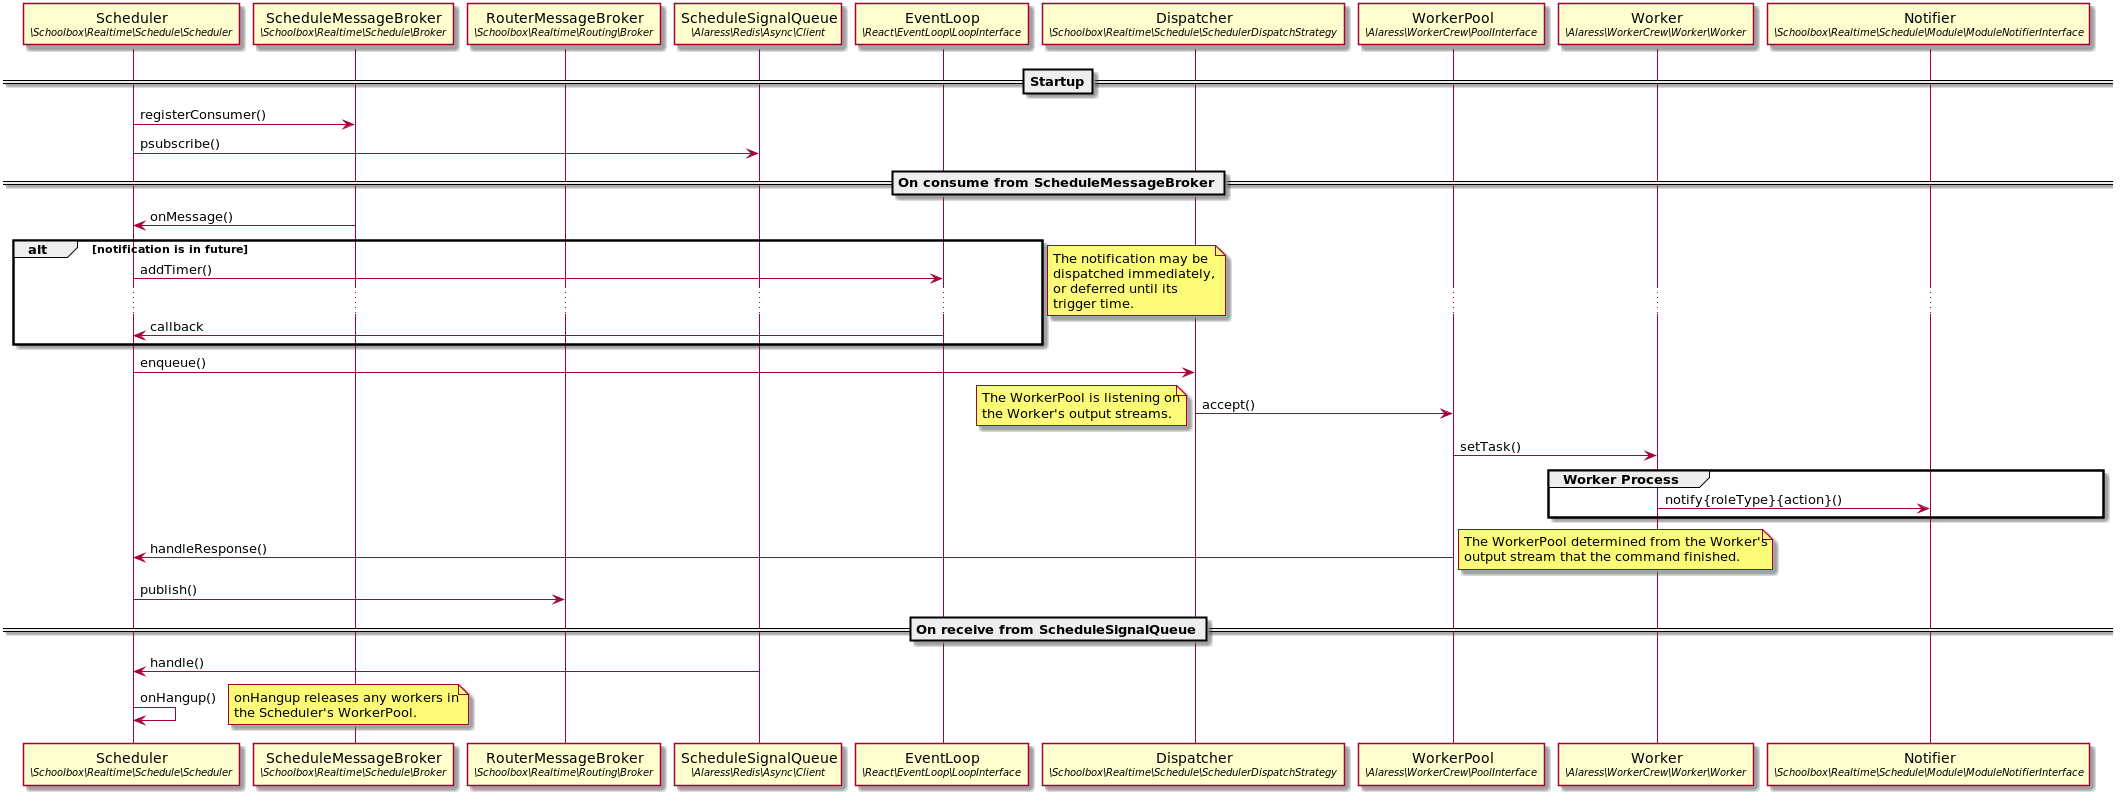
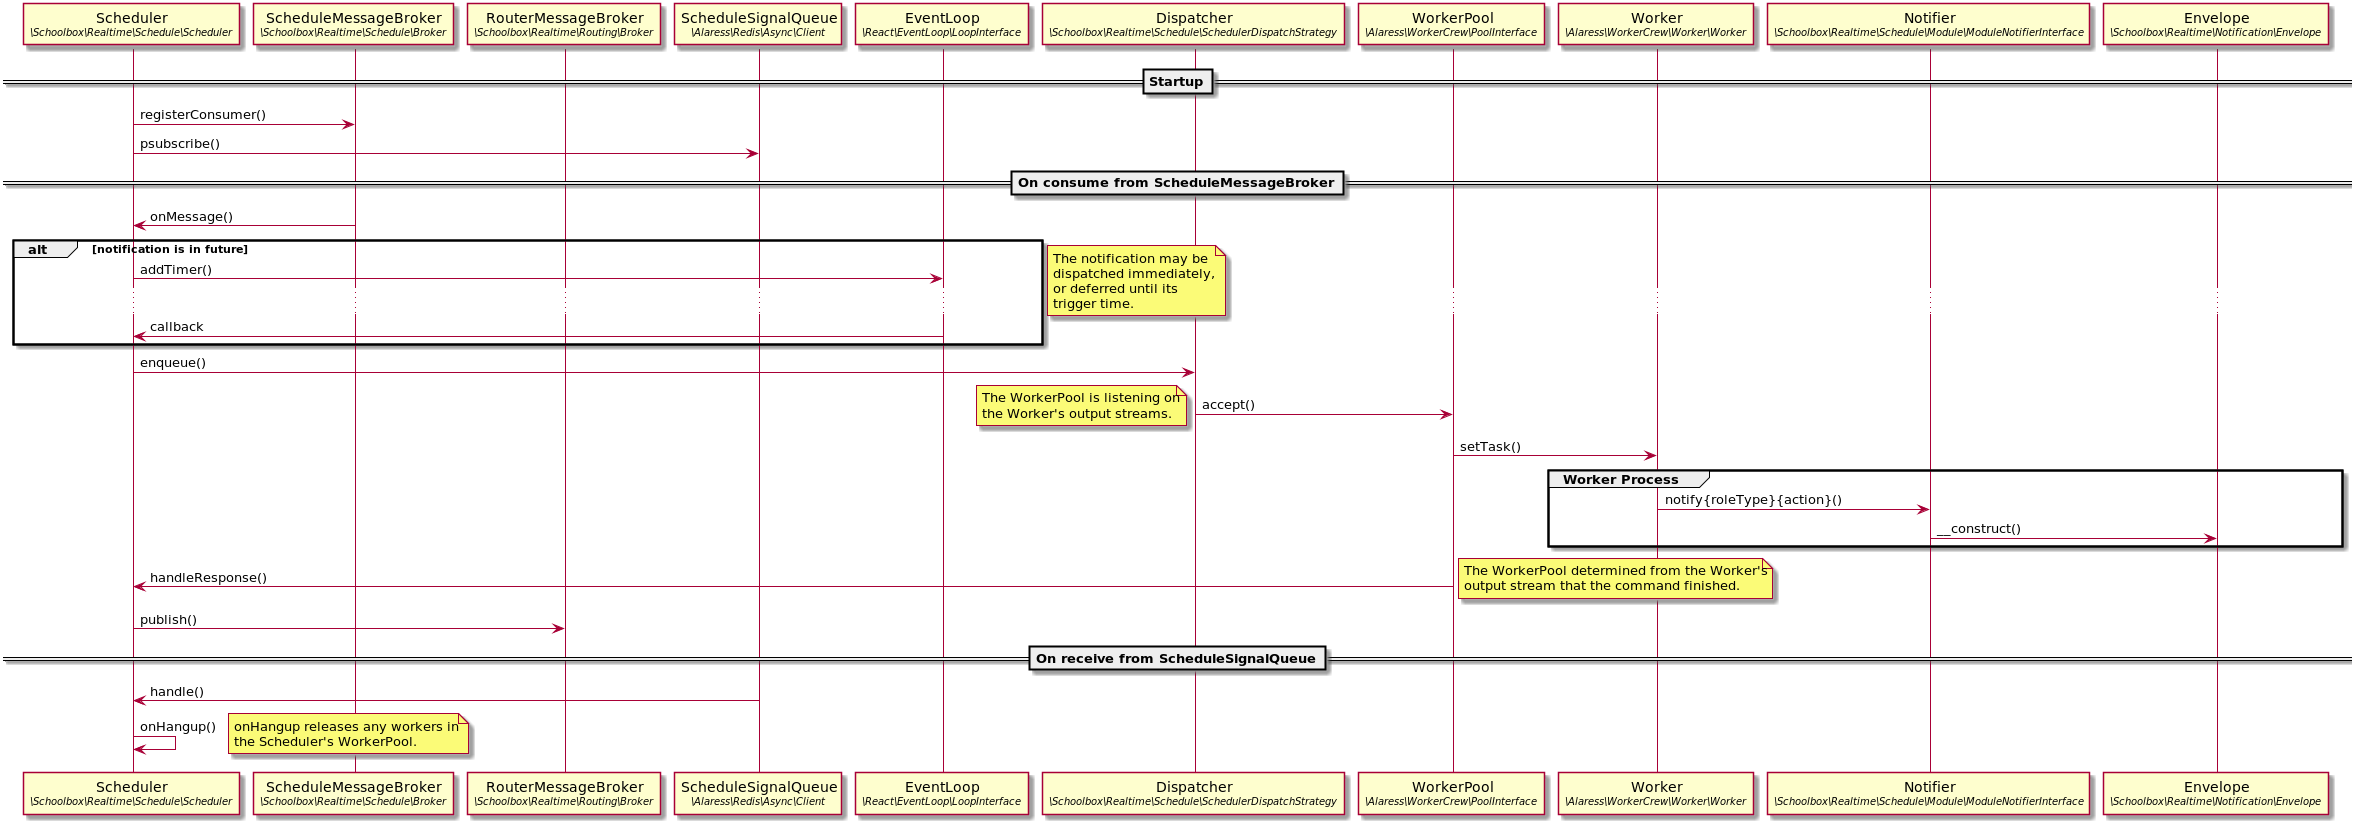
Expanded scheduling notes [SA-6488]

Changed region(s): [[0.0, 0.0, 0.9944, 0.5434], [0.0, 0.5132, 0.9944, 0.9962]]

diff --git a/docs/notifications/200-scheduling.md b/docs/notifications/200-scheduling.md
@@ -56,7 +56,112 @@ The actual `notify` method that gets called depends on:
 * the trigger label
   * this is a short description of the type of event that occurred
 
+Each `notify` method will return a `Envelope` object; this object contains all
+information required for the formation of a message:
+* its audience
+* its topic (determines how the message is sent to everyone in its audience)
+* its title (determines what each audience member actually sees)
+
+
 #### Example
+
+```php
+<?php
+
+use Alaress\Async\Notification\Instance\Builder;
+use Schoolbox\Realtime\Notification\Envelope;
+use Schoolbox\Realtime\Notification\Parameter\UserParam;
+use Schoolbox\Realtime\Schedule\Module\AbstractModuleNotifier;
+use Schoolbox\Realtime\Schedule\Trigger\TriggerBundle;
+use Schoolbox\User;
+
+class MyNotifier extends AbstractModuleNotifier
+{
+    private const TRIGGER_CREATED = 'created';
+    private const TRIGGER_DELETED = 'deleted';
+    
+    public function bundleTriggers(TriggerBundle $bundle): void
+    {
+        // Often, the triggered notify method depends on the bundle's method.
+        switch ($bundle->getMethod()) {
+            case \Schoolbox\Mapper::METHOD_CREATE:
+                // Trigger the created notify method one day from now
+                $bundle->attach(
+                    self::TRIGGER_CREATED, 
+                    Alaress_Date_Format::now()->addDays(1)->getUnixTimeStamp()
+                );
+                break;
+                
+            case \Schoolbox\Mapper::METHOD_DELETE:
+                // Trigger the deleted notify method immediately
+                $bundle->attach(self::TRIGGER_DELETED, self::IMMEDIATELY);
+                break;
+        }
+    }
+    
+
+    /**
+     * This method will be called when the created trigger is fired.
+     * 
+     * It's assumed that this will only build envelopes that are targeted to 
+     * staff.
+     * 
+     * @param object $object   The object that was just affected
+     * @param User   $effector The user who effected the change to the object
+     * @param array  $diff     If set, the difference between $object's current
+     *                         and previous state
+     * @return Envelope
+     */
+    public function notifyStaffCreated($object, User $effector, array $diff = null): Envelope
+    {
+        // This method is creating a message to be sent to all staff.
+        // There is no equivalent method for students or parents, thus it is
+        // assumed that they will not receive a message on this topic.
+        $bob = new Builder();
+        $bob->setTitle(":user created an object")
+            ->setHref('/home/')
+            ->addTopic("object.{$object->getId()}.created");
+
+        $bob->setParams([
+            'user' => new UserParam($effector),
+        ]);
+
+        $envelope = new Envelope();
+        $envelope->broadcastToRoleType('staff', $bob->build());
+        return $envelope;
+    }
+    
+    
+
+    /**
+     * This method will be called when the deleted trigger is fired.
+     * 
+     * @param object $object   The object that was just affected
+     * @param User   $effector The user who effected the change to the object
+     * @param array  $diff     If set, the difference between $object's current
+     *                         and previous state
+     * @return Envelope
+     */
+    public function notifySystemDeleted($object, User $effector, array $diff = null): Envelope
+    {
+        // This method is issuing a retraction for the message sent to all
+        // staff above.
+        $bob = new Builder();
+        $bob->setTitle(":user created an object")
+            ->setHref('/home/')
+            ->addTopic("object.{$object->getId()}.created");
+
+        $bob->setParams([
+            'user' => new UserParam($effector),
+        ]);
+
+        $envelope = new Envelope();
+        $envelope->retractAllLike($bob->build());
+        return $envelope;
+    }
+}
+
+```
 
 #### Developer Notes
 
